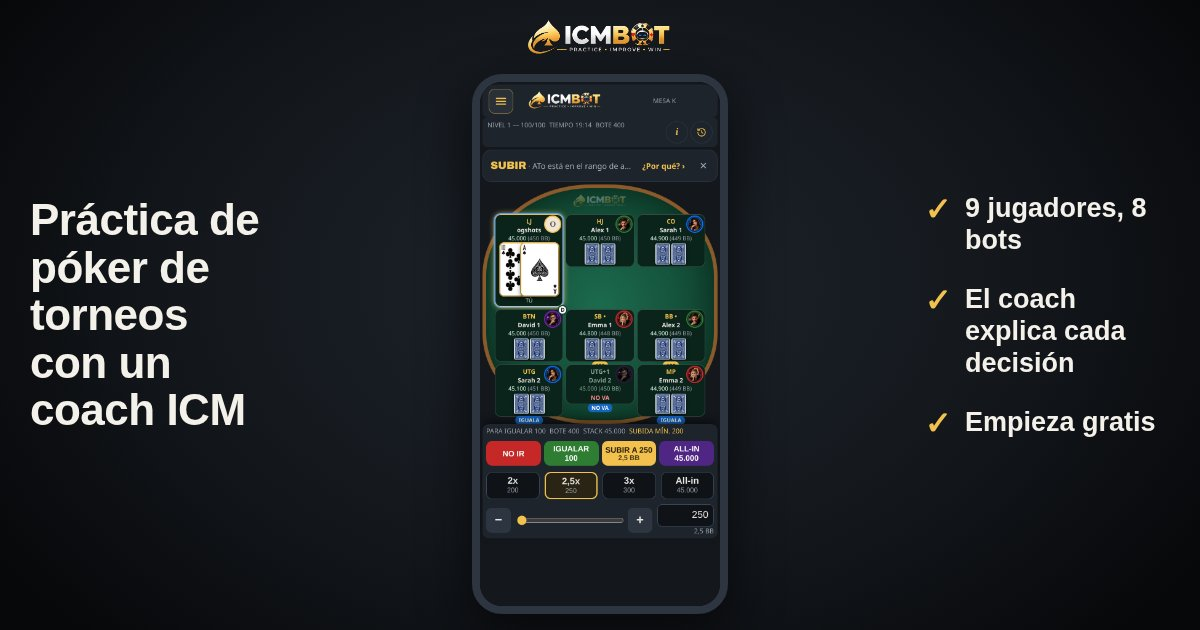
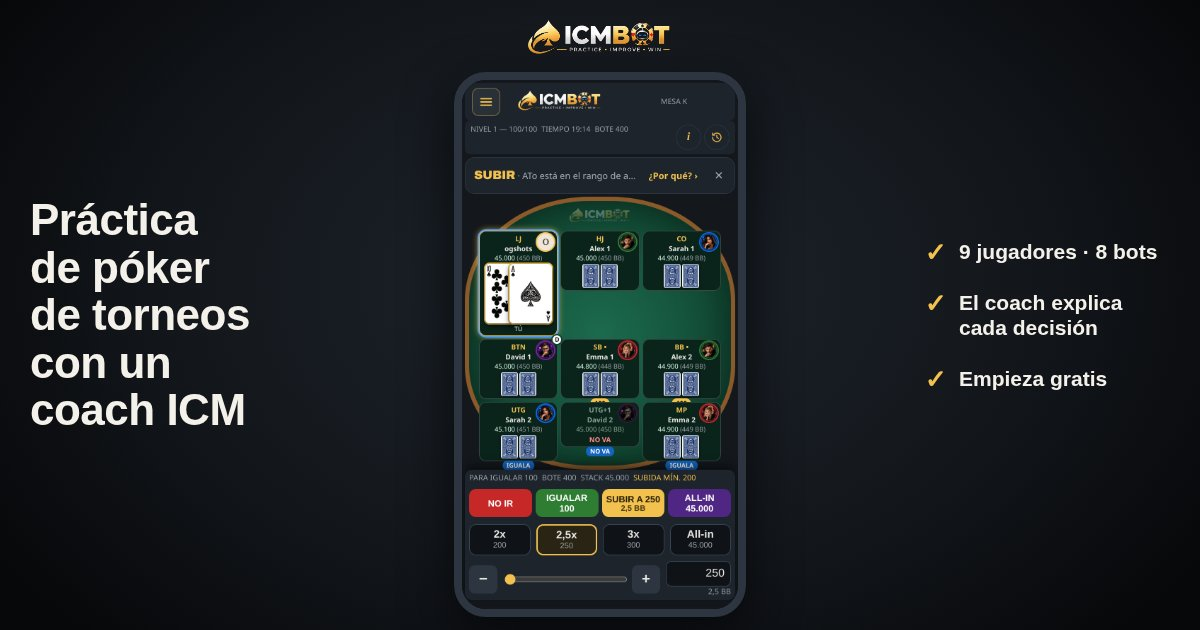
Plan 104: the card pictures stop below the bet controls and the first line fits on one row

diff --git a/scripts/og-image/preview.html b/scripts/og-image/preview.html
@@ -7,14 +7,16 @@ body { width: 1200px; height: 630px; }
   mix-blend-mode: lighten; /* the logo file has a black background */ }
 /* the centred 630 x 630 square (x 285 to 915) is what WhatsApp's small preview
    shows: the logo and the phone sit inside it, the text sits left and right */
-.phone { left: 472px; top: 74px; width: 256px; height: 540px; border-radius: 30px; border-width: 8px; }
-.phone img { border-radius: 22px; }
-.side { position: absolute; top: 0; height: 630px; width: 245px; display: flex; flex-direction: column; justify-content: center; }
-.left { left: 30px; } .right { right: 30px; }
-h1 { font-size: 44px; line-height: 1.08; font-weight: 800; letter-spacing: -0.5px; }
+/* the screenshot is cut just below the bet controls (no empty page under them) */
+.phone { left: 454px; top: 72px; width: 292px; height: 545px; border-radius: 32px; border-width: 8px; }
+.phone img { border-radius: 24px; object-fit: cover; object-position: top; }
+.side { position: absolute; top: 0; height: 630px; width: 255px; display: flex; flex-direction: column; justify-content: center; }
+.left { left: 30px; } .right { right: 20px; }
+h1 { text-wrap: balance; font-size: 44px; line-height: 1.08; font-weight: 800; letter-spacing: -0.5px; }
 ul { list-style: none; padding: 0; display: grid; gap: 26px; }
-li { font-size: 27px; line-height: 1.2; font-weight: 600; padding-left: 40px; position: relative; }
-li::before { content: "\2713"; position: absolute; left: 0; top: -2px; color: var(--accent); font-size: 32px; font-weight: 800; }
+li { font-size: 21px; line-height: 1.2; font-weight: 600; padding-left: 34px; position: relative; text-wrap: balance; }
+li:first-child { white-space: nowrap; }
+li::before { content: "\2713"; position: absolute; left: 0; top: -2px; color: var(--accent); font-size: 26px; font-weight: 800; }
 </style>
 <img class="logo" src="../../frontend/public/Logo/logo.png" alt="">
 <div class="side left"><h1 id="h"></h1></div>

diff --git a/scripts/og-image/strings.js b/scripts/og-image/strings.js
@@ -2,10 +2,10 @@
 const STRINGS = {
   en: {
     headline: "Tournament poker practice with an ICM coach",
-    points: ["9 players, 8 bots", "The coach explains every decision", "Start free"],
+    points: ["9 players · 8 bots", "The coach explains every decision", "Start free"],
   },
   es: {
     headline: "Práctica de póker de torneos con un coach ICM",
-    points: ["9 jugadores, 8 bots", "El coach explica cada decisión", "Empieza gratis"],
+    points: ["9 jugadores · 8 bots", "El coach explica cada decisión", "Empieza gratis"],
   },
 };

diff --git a/plans/104_classic_and_link_preview.md b/plans/104_classic_and_link_preview.md
@@ -55,16 +55,14 @@ The owner (28 Oct), held until the Phase 2 look was live (099, 101, 103):
   x from 285 to 915), so the layout has two zones:
   - inside that square, whole and readable: the ICMBOT logo on top and a
     phone frame with a real 390 x 844 screenshot of a live table on an
-    upright phone: the coach strip saying RAISE or CALL (the script deals
+    upright phone, cut just below the bet controls so no empty page shows: the coach strip saying RAISE or CALL (the script deals
     until the coach says one of those), all 9 seats and the action buttons.
     In the Spanish card the app is in Spanish (`?lang=es`);
   - left of the square: the headline ("Tournament poker practice with an ICM
     coach" / "Práctica de póker de torneos con un coach ICM"), at 44 px over
     several lines because the zone is 245 px wide (the earlier rule of 2
     lines at 64 px does not fit beside the square);
-  - right of the square: three short lines with a gold tick: "9 players, 8
-    bots", "The coach explains every decision", "Start free" (Spanish: "9
-    jugadores, 8 bots", "El coach explica cada decisión", "Empieza gratis").
+  - right of the square: three short lines with a gold tick, the first on one line (smaller type than the headline): "9 players · 8 bots", "The coach explains every decision", "Start free" (Spanish: "9 jugadores · 8 bots", "El coach explica cada decisión", "Empieza gratis").
   The headline and the lines may be cut in the small view; the logo and the
   phone may not. The full 1200 x 630 card must still read well, at 500 px
   wide too (how big it shows in a chat). The script writes a 300 px copy of
